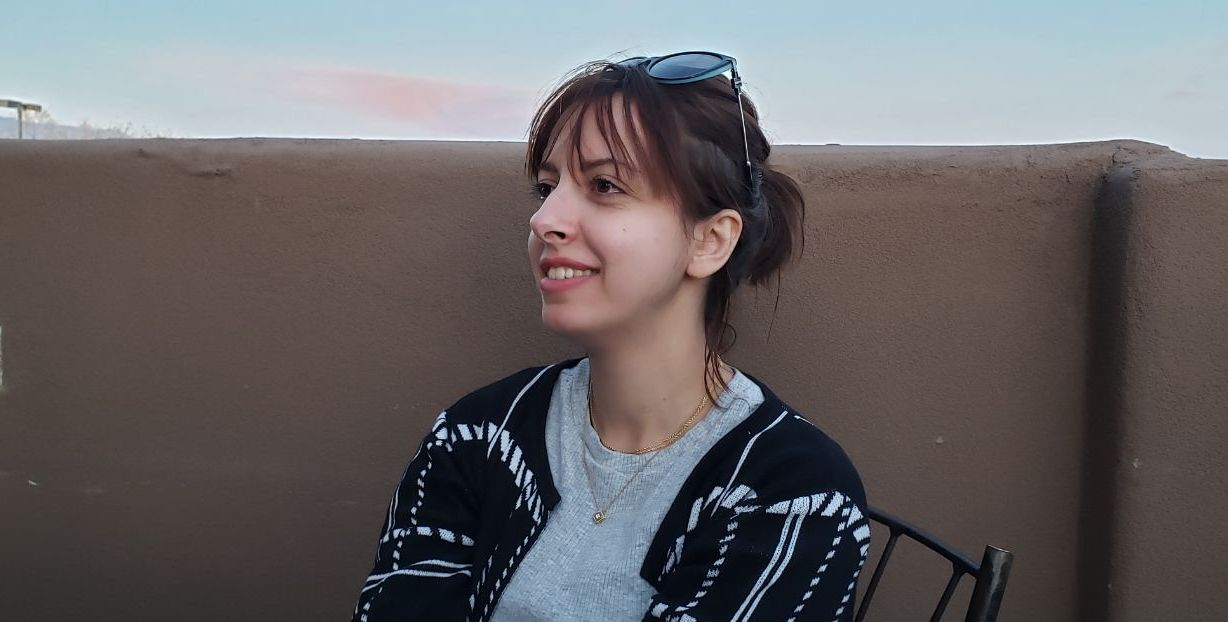
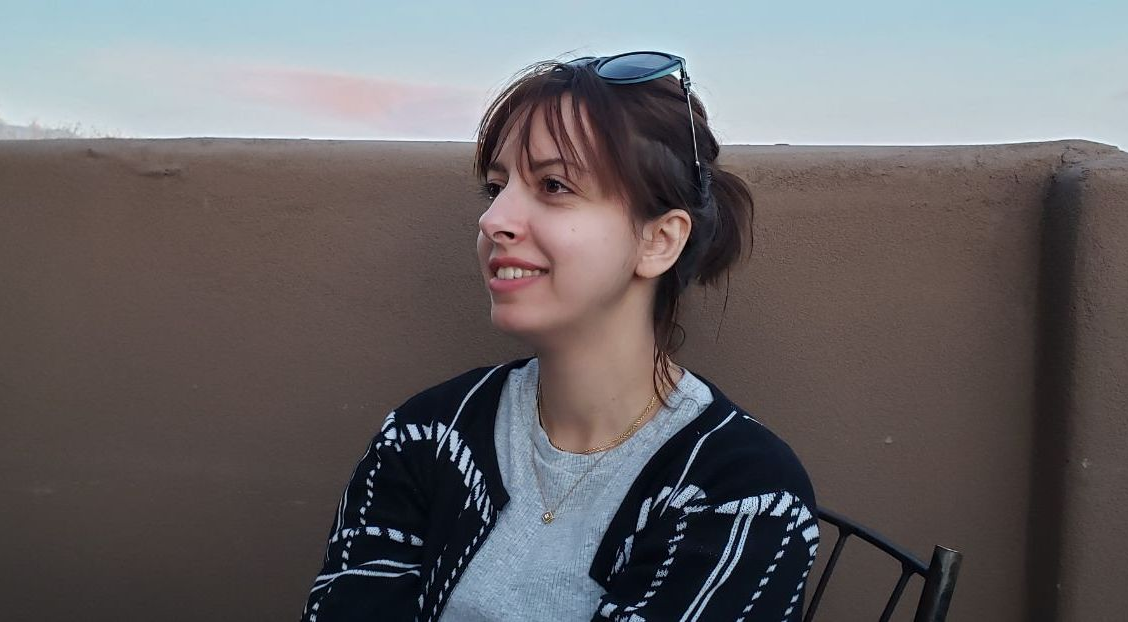
latest build

diff --git a/index.html b/index.html
@@ -85,8 +85,8 @@
                         <span style="font-weight:normal; text-align:justify; text-justify:newspaper; text-kashida-space:50%">
                             <p>
                                 I am Fatemeh Bagheri (call me Fatima!). I am currently a NASA Postdoctoral Fellow at <a target="_blank" href="https://www.nasa.gov/goddard/">NASA Goddard Space Flight Center (GSFC)</a>. 
-                                I have two Ph.D.s, one in Astrophysics (Exoplanet Science) and the other in Space Science. 
-                                My research is in various of scientific disciplines, including Astrophysics, Exoplanet Hunting, Astrobiology, Magnetospheric Science, and Computational and Mathematical Modeling.
+                                I have two PhDs, one in Astrophysics (Exoplanet Science) and the other in Space Science. 
+                                My research involves various scientific disciplines, including astronomy, astrobiology, exoplanet hunting, space physics, magnetospheric science, computational and mathematical modeling, and machine learning.
                             </p>
                             
                             <br>
@@ -166,7 +166,7 @@
                                 <div class="row">
                                     <div class="col">
                                         <a href="https://www.uta.edu/" target="_blank"><img src="/img/logos/uta.png" height="130"></a><br><br>
-                                        <a target="_blank" href="https://www.uta.edu/" target="_blank">The University of Texas at Arlington (current)</a><br/>
+                                        <a target="_blank" href="https://www.uta.edu/" target="_blank">The University of Texas at Arlington</a><br/>
                                     </div>
                                     <div class="col">
                                         <a href="https://www.utexas.edu/" target="_blank"><img src="/img/logos/ut.png" height="130"></a><br><br>
